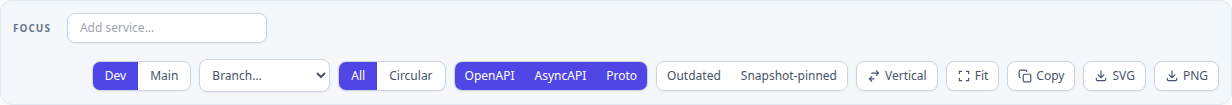
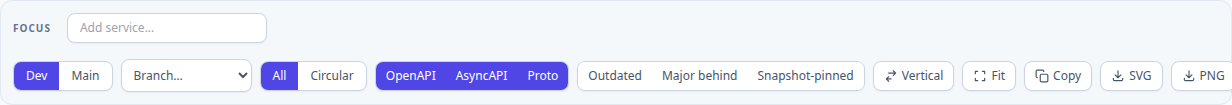
Keep the highlight toggles on one line
The third toggle added by #25 pushed the group's multi-word labels into
wrapping mid-label. Caught by looking at the rendered toolbar, not by the
smoke test, which passed either way.

Changed region(s): [[0.0, 0.5429, 1.0, 0.8857], [0.6786, 0.8286, 0.7094, 0.8857], [0.5244, 0.8571, 0.5552, 0.8857]]

diff --git a/static/graph.html b/static/graph.html
@@ -134,9 +134,9 @@
                      line's latest GA) and Snapshot-pinned (Pin served from a
                      Snapshot). Display states, never resolution inputs. -->
                 <div class="inline-flex rounded-lg border border-slate-300 text-xs overflow-hidden bg-white shadow-sm">
-                    <button id="highlight-outdated" class="px-2.5 py-1.5 bg-white text-slate-600 hover:bg-slate-50 font-medium" onclick="toggleHighlightFilter('outdated')" title="Highlight dependencies whose Pin is below the latest GA of the line within the same major">Outdated</button>
-                    <button id="highlight-breaking-outdated" class="px-2.5 py-1.5 bg-white text-slate-600 hover:bg-slate-50 font-medium" onclick="toggleHighlightFilter('breakingOutdated')" title="Highlight dependencies whose Pin is a whole major behind the latest GA of the line">Major behind</button>
-                    <button id="highlight-snapshot" class="px-2.5 py-1.5 bg-white text-slate-600 hover:bg-slate-50 font-medium" onclick="toggleHighlightFilter('snapshot')" title="Highlight dependencies served from a Snapshot (building against overwritable content)">Snapshot-pinned</button>
+                    <button id="highlight-outdated" class="px-2.5 py-1.5 whitespace-nowrap bg-white text-slate-600 hover:bg-slate-50 font-medium" onclick="toggleHighlightFilter('outdated')" title="Highlight dependencies whose Pin is below the latest GA of the line within the same major">Outdated</button>
+                    <button id="highlight-breaking-outdated" class="px-2.5 py-1.5 whitespace-nowrap bg-white text-slate-600 hover:bg-slate-50 font-medium" onclick="toggleHighlightFilter('breakingOutdated')" title="Highlight dependencies whose Pin is a whole major behind the latest GA of the line">Major behind</button>
+                    <button id="highlight-snapshot" class="px-2.5 py-1.5 whitespace-nowrap bg-white text-slate-600 hover:bg-slate-50 font-medium" onclick="toggleHighlightFilter('snapshot')" title="Highlight dependencies served from a Snapshot (building against overwritable content)">Snapshot-pinned</button>
                 </div>
                 <button id="graph-direction-toggle"
                         class="inline-flex items-center gap-1 px-2.5 py-1.5 rounded-lg text-xs font-medium bg-white border border-slate-300 text-slate-600 hover:bg-slate-50 transition-colors shadow-sm"

diff --git a/static/js/graph.js b/static/js/graph.js
@@ -149,9 +149,10 @@ function updateHighlightButtons() {
   for (const [id, filter, activeClasses] of styles) {
     const btn = document.getElementById(id);
     if (!btn) continue;
+    // nowrap: three toggles with multi-word labels otherwise wrap mid-label.
     btn.className = window.graphHighlightFilters[filter]
-      ? `px-2.5 py-1.5 ${activeClasses} font-medium`
-      : "px-2.5 py-1.5 bg-white text-slate-600 hover:bg-slate-50 font-medium";
+      ? `px-2.5 py-1.5 whitespace-nowrap ${activeClasses} font-medium`
+      : "px-2.5 py-1.5 whitespace-nowrap bg-white text-slate-600 hover:bg-slate-50 font-medium";
   }
 }
 window.updateHighlightButtons = updateHighlightButtons;
